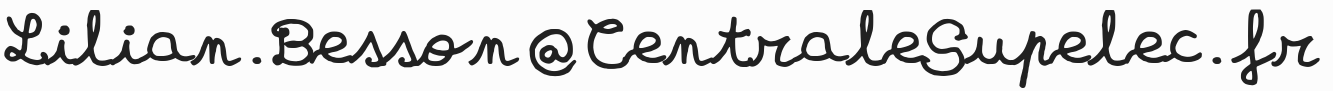
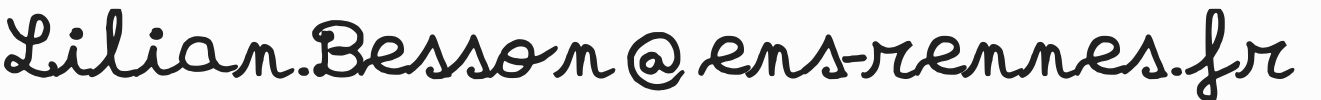
Update status.

Changed region(s): [[0.0, 0.0879, 0.9932, 1.0]]

diff --git a/index.fr.rst b/index.fr.rst
@@ -20,6 +20,7 @@ Depuis septembre 2016 et jusqu'en août 2019 :
 
 - Je fais `ma thèse de doctorat <phd/>`_, à CentraleSupélec (`équipe SCEE <http://www-scee.rennes.supelec.fr/wp/>`_, `labo IETR <https://www.ietr.fr/spip.php?auteur1069>`_) à Rennes (France), avec `Christophe Moy <http://www.rennes.supelec.fr/ren/perso/cmoy/recherche.php>`_ et `Emilie Kaufmann <http://chercheurs.lille.inria.fr/ekaufman/research.html>`_ (`équipe SequeL, labo CRIStAL, à Lille <https://team.inria.fr/sequel/team-members/>`_). Ma thèse porte sur les modèles multi-joueurs de bandits multi-bras (notamment), appliqués à des problèmes de radio-télécommunication, en particulier aux I-o-T (Internet des Objets).
 - Et `j'enseigne <enseignement.fr.html>`_ en informatique théorique à `l'ENS Rennes <http://www.dit.ens-rennes.fr/agregation-option-d/>`_ (pour la classe de préparation au `concours national de l'agrégation <http://agreg.org/>`_, niveau M2) et `ENSAI <http://www.ensai.fr/formation/id-1re-annee.html>`_ (complexité et calculabilité, niveau L3), grâce à `cette mission <http://www.irisa.fr/fr/emplois/enseignants/missions-denseignement-au-departement-informatique-lens-rennes>`_.
+- Depuis août 2019, je suis désormais un `jeune professeur agrégé (avec un statut d'agrégé préparateur) <http://www.dit.ens-rennes.fr/lilian-besson--292020.kjsp>`_ à `l'ENS Rennes <http://www.dit.ens-rennes.fr/>`_, en charge de la préparation à l'agrégation de mathématiques, option informatique (au niveau M2), et en charge de cours pour l'`introduction à l'algorithmique et algorithmique avancée <https://perso.crans.org/besson/info1_algo1_2019/>`_.
 
 
 ------------------------------------------------------------------------------
@@ -32,9 +33,9 @@ N'hésitez pas à me *contacter* :
     :scale: 40 %
     :align: right
     :alt:   Mon adresse courriel, dans une image PNG…
-    :target: mailto:Lilian.Besson＠CentraleSupelec.fr
+    :target: mailto:Lilian.Besson＠ENS-Rennes.fr
 
-#. par *courriel* à cette adresse `Lilian.Besson＠CentraleSupelec.fr <mailto:Lilian.Besson＠CentraleSupelec.fr>`_, ou `besson à crans.org <mailto:besson à crans.org>`_ :
+#. par *courriel* à cette adresse `Lilian.Besson＠ENS-Rennes.fr <mailto:Lilian.Besson＠ENS-Rennes.fr>`_, ou `besson à crans.org <mailto:besson à crans.org>`_ :
 
 .. image:: .telephone.png
     :scale: 40 %

diff --git a/projects.fr.rst b/projects.fr.rst
@@ -20,6 +20,7 @@ Depuis septembre 2016 et jusqu'en août 2019 :
 
 - Je fais `ma thèse de doctorat <phd/>`_, à CentraleSupélec (`équipe SCEE <http://www-scee.rennes.supelec.fr/wp/>`_, `labo IETR <https://www.ietr.fr/spip.php?auteur1069>`_) à Rennes (France), avec `Christophe Moy <http://www.rennes.supelec.fr/ren/perso/cmoy/recherche.php>`_ et `Emilie Kaufmann <http://chercheurs.lille.inria.fr/ekaufman/research.html>`_ (`équipe SequeL, labo CRIStAL, à Lille <https://team.inria.fr/sequel/team-members/>`_). Ma thèse porte sur les modèles multi-joueurs de bandits multi-bras (notamment), appliqués à des problèmes de radio-télécommunication, en particulier aux I-o-T (Internet des Objets).
 - Et `j'enseigne <enseignement.fr.html>`_ en informatique théorique à `l'ENS Rennes <http://www.dit.ens-rennes.fr/agregation-option-d/>`_ (pour la classe de préparation au `concours national de l'agrégation <http://agreg.org/>`_, niveau M2) et `ENSAI <http://www.ensai.fr/formation/id-1re-annee.html>`_ (complexité et calculabilité, niveau L3), grâce à `cette mission <http://www.irisa.fr/fr/emplois/enseignants/missions-denseignement-au-departement-informatique-lens-rennes>`_.
+- Depuis août 2019, je suis désormais un `jeune professeur agrégé (avec un statut d'agrégé préparateur) <http://www.dit.ens-rennes.fr/lilian-besson--292020.kjsp>`_ à `l'ENS Rennes <http://www.dit.ens-rennes.fr/>`_, en charge de la préparation à l'agrégation de mathématiques, option informatique (au niveau M2), et en charge de cours pour l'`introduction à l'algorithmique et algorithmique avancée <https://perso.crans.org/besson/info1_algo1_2019/>`_.
 
 
 ------------------------------------------------------------------------------
@@ -32,9 +33,9 @@ N'hésitez pas à me *contacter* :
     :scale: 40 %
     :align: right
     :alt:   Mon adresse courriel, dans une image PNG…
-    :target: mailto:Lilian.Besson＠CentraleSupelec.fr
+    :target: mailto:Lilian.Besson＠ENS-Rennes.fr
 
-#. par *courriel* à cette adresse `Lilian.Besson＠CentraleSupelec.fr <mailto:Lilian.Besson＠CentraleSupelec.fr>`_, ou `besson à crans.org <mailto:besson à crans.org>`_ :
+#. par *courriel* à cette adresse `Lilian.Besson＠ENS-Rennes.fr <mailto:Lilian.Besson＠ENS-Rennes.fr>`_, ou `besson à crans.org <mailto:besson à crans.org>`_ :
 
 .. image:: .telephone.png
     :scale: 40 %

diff --git a/index.en.rst b/index.en.rst
@@ -21,6 +21,7 @@ From September 2016 and until August 2019:
 
 - I am pursuing `my PhD <phd/>`_ at CentraleSupélec (`SCEE team <http://www-scee.rennes.supelec.fr/wp/>`_, `IETR lab <https://www.ietr.fr/spip.php?auteur1069>`_) in Rennes (France), with `Christophe Moy <http://www.rennes.supelec.fr/ren/perso/cmoy/recherche.php>`_ and `Emilie Kaufmann <http://chercheurs.lille.inria.fr/ekaufman/research.html>`_ (`SequeL team, CRIStAL lab, at Lille <https://team.inria.fr/sequel/team-members/>`_). My PhD is on multi-players multi-arms bandits models applied to radio-telecommunication, especially I-o-T problems.
 - And I am `teaching <teaching.en.html>`_ theoretical computer science at `ENS Rennes <http://www.dit.ens-rennes.fr/agregation-option-d/>`_ (for a class preparing for the agregation national exam, level M2) and `ENSAI <http://www.ensai.fr/formation/id-1re-annee.html>`_ (complexity and calculabilty, level L3), thanks to `this mission <http://www.irisa.fr/fr/emplois/enseignants/missions-denseignement-au-departement-informatique-lens-rennes>`_.
+- From August 2019, I am now a `junior professor (agrégé) <http://www.dit.ens-rennes.fr/lilian-besson--292020.kjsp>`_ at `ENS Rennes <http://www.dit.ens-rennes.fr/>`_, in charge of the class preparing the "agrégation" national exam, with a major in mathematics and a minor in computer science, level M2, and in charge of lectures for `introduction and advanced algorithms <https://perso.crans.org/besson/info1_algo1_2019/>`_.
 
 
 ------------------------------------------------------------------------------
@@ -33,9 +34,9 @@ Feel free to *contact* me by, `the solution you prefer <callme.en.html>`_:
     :scale: 40 %
     :align: right
     :alt:   My email adress in a PNG image…
-    :target: mailto:Lilian.Besson＠CentraleSupelec.fr
+    :target: mailto:Lilian.Besson＠ENS-Rennes.fr
 
-#. by *email* at this adress `Lilian.Besson＠CentraleSupelec.fr <mailto:Lilian.Besson＠CentraleSupelec.fr>`_, or `besson at crans.org <mailto:besson at crans.org>`_:
+#. by *email* at this adress `Lilian.Besson＠ENS-Rennes.fr <mailto:Lilian.Besson＠ENS-Rennes.fr>`_, or `besson at crans.org <mailto:besson at crans.org>`_:
 
 .. image:: .telephone.png
     :scale: 40 %

diff --git a/projects.en.rst b/projects.en.rst
@@ -20,6 +20,7 @@ From September 2016 and until August 2019:
 
 - I am pursuing `my PhD <phd/>`_ at CentraleSupélec (`SCEE team <http://www-scee.rennes.supelec.fr/wp/>`_, `IETR lab <https://www.ietr.fr/spip.php?auteur1069>`_) in Rennes (France), with `Christophe Moy <http://www.rennes.supelec.fr/ren/perso/cmoy/recherche.php>`_ and `Emilie Kaufmann <http://chercheurs.lille.inria.fr/ekaufman/research.html>`_ (`SequeL team, CRIStAL lab, at Lille <https://team.inria.fr/sequel/team-members/>`_). My PhD is on multi-players multi-arms bandits models applied to radio-telecommunication, especially I-o-T problems.
 - And I am `teaching <teaching.en.html>`_ theoretical computer science at `ENS Rennes <http://www.dit.ens-rennes.fr/agregation-option-d/>`_ (for a class preparing for the agregation national exam, level M2) and `ENSAI <http://www.ensai.fr/formation/id-1re-annee.html>`_ (complexity and calculabilty, level L3), thanks to `this mission <http://www.irisa.fr/fr/emplois/enseignants/missions-denseignement-au-departement-informatique-lens-rennes>`_.
+- From August 2019, I am now a `junior professor (agrégé) <http://www.dit.ens-rennes.fr/lilian-besson--292020.kjsp>`_ at `ENS Rennes <http://www.dit.ens-rennes.fr/>`_, in charge of the class preparing the "agrégation" national exam, with a major in mathematics and a minor in computer science, level M2, and in charge of lectures for `introduction and advanced algorithms <https://perso.crans.org/besson/info1_algo1_2019/>`_.
 
 
 ------------------------------------------------------------------------------
@@ -32,9 +33,9 @@ Feel free to *contact* me by, `the solution you prefer <callme.en.html>`_:
     :scale: 40 %
     :align: right
     :alt:   My email adress in a PNG image…
-    :target: mailto:Lilian.Besson＠CentraleSupelec.fr
+    :target: mailto:Lilian.Besson＠ENS-Rennes.fr
 
-#. by *email* at this adress `Lilian.Besson＠CentraleSupelec.fr <mailto:Lilian.Besson＠CentraleSupelec.fr>`_, or `besson at crans.org <mailto:besson at crans.org>`_:
+#. by *email* at this adress `Lilian.Besson＠ENS-Rennes.fr <mailto:Lilian.Besson＠ENS-Rennes.fr>`_, or `besson at crans.org <mailto:besson at crans.org>`_:
 
 .. image:: .telephone.png
     :scale: 40 %
